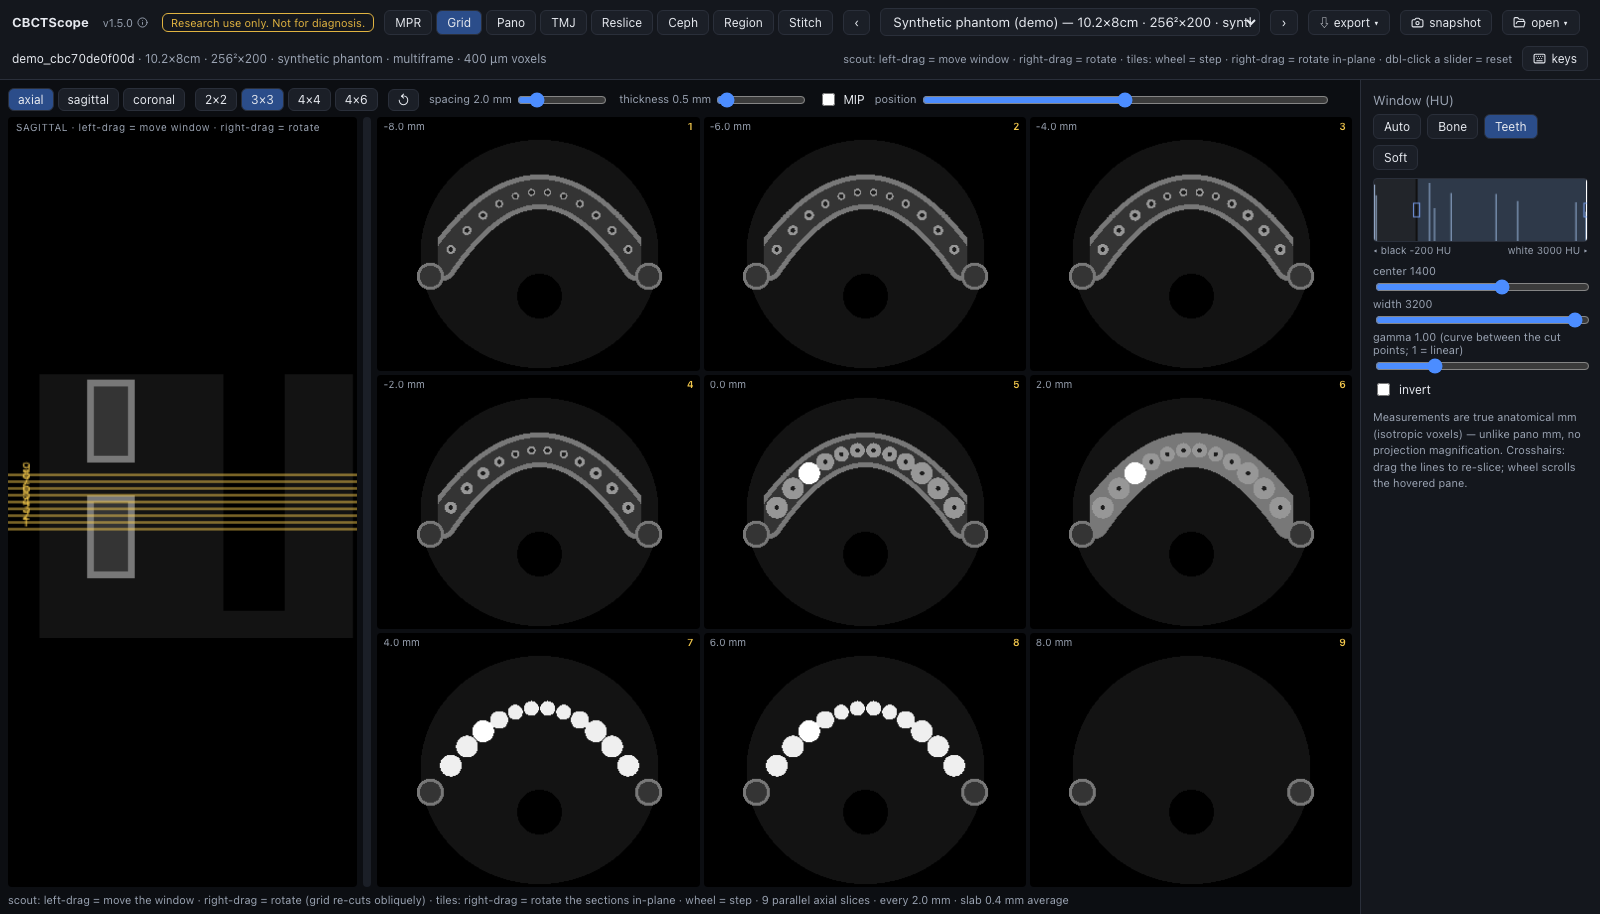
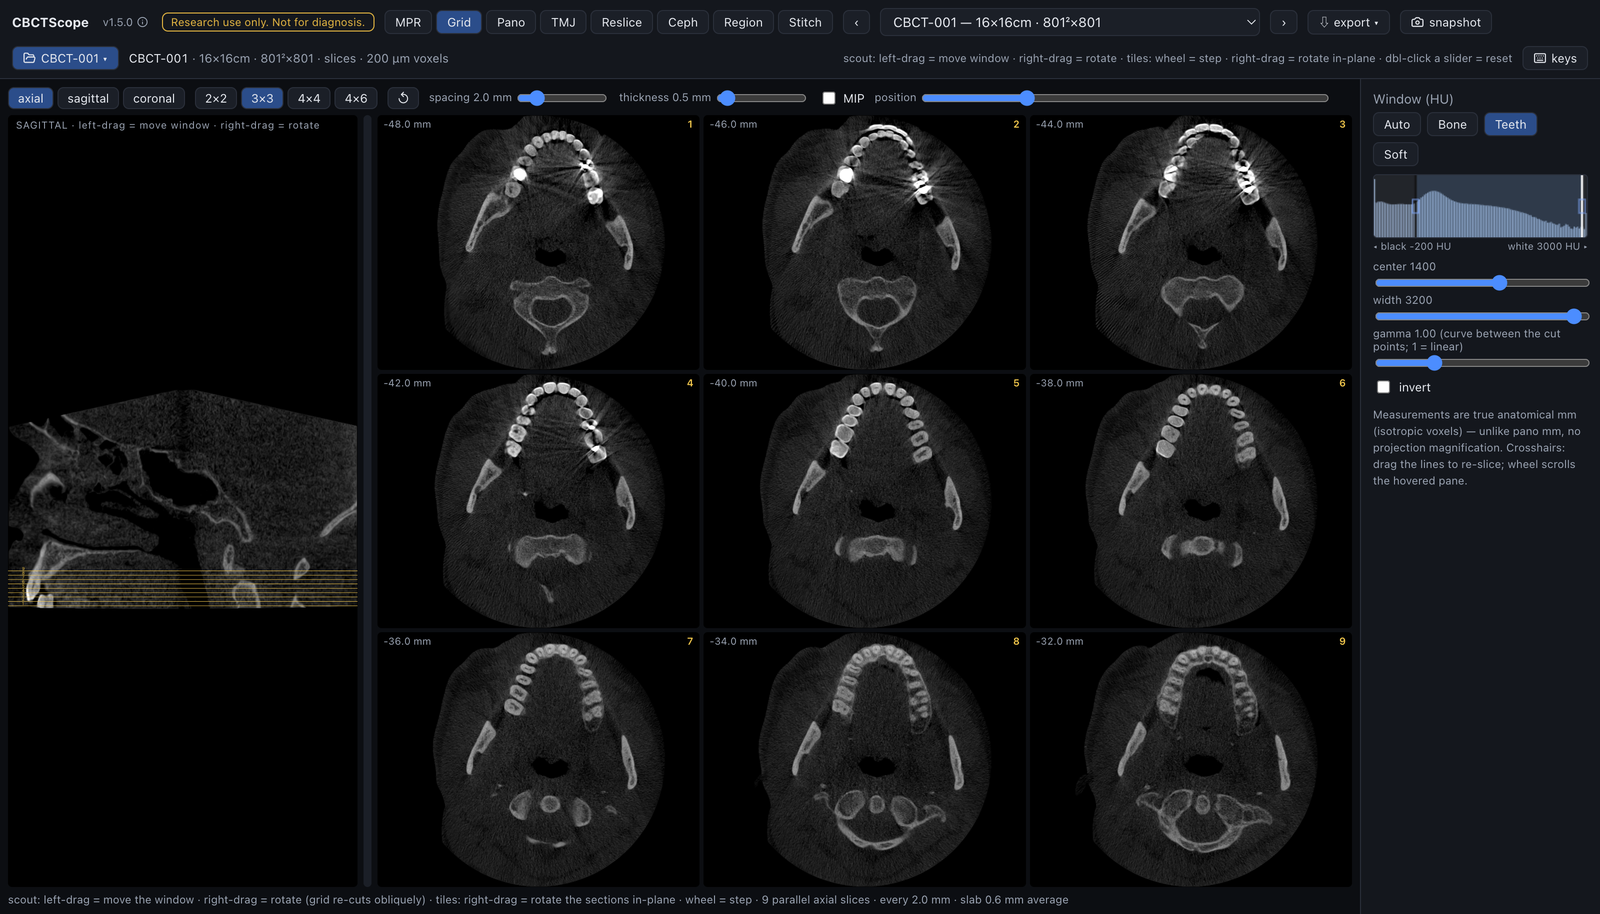
The README imagery moves from the phantom to a real, consented, de-identified CBCT
The three interface stills and the demo GIF were shot on the synthetic phantom,
which proves the viewer runs with zero patient data but does not show a
radiologist what a real scan reads like in it. They are now shot on one real
CBCT (801^3 at 200 um, 16x16 cm, full head, dentition with metal restorations)
given with the patient's written consent.

The volume never enters the repo and never did: it was de-identified BEFORE it
was first opened (identifying tags dropped, every date blanked, UIDs
regenerated, pixels byte-identical, verified by re-reading every written file),
it lives outside every repository under a neutral folder name because the
viewer prints the folder as the case label, and only these PNGs and the GIF
are committed. Hard rule 3 in AGENTS.md now states that standard instead of a
flat "no screenshots with real patient data", and adds the one line consent
does not cover: never a soft-tissue 3D render of a real head, because that
surface is a recognizable face. Every 3D pane here is the bone Surface style.
The manual's contributor guide points at the same rule.

- thumb-mpr, thumb-grid, thumb-pano re-shot; thumb-tmj is new (both condyles
  in axis-corrected sections), so the glance table is four stills.
- cbctscope-demo.gif re-recorded live over the MCP bridge: navigate_slice
  walks the axial from skull base to the dentition, set_window_level Teeth and
  Bone, set_view_mode through grid, pano, TMJ, reslice and ceph, reset_view
[…]

diff --git a/README.md b/README.md
@@ -6,13 +6,14 @@ AI-agent control.**
 
 [![DOI: 10.5281/zenodo.21431452](docs/media/doi-badge.svg)](https://doi.org/10.5281/zenodo.21431452)
 
-![An AI agent driving CBCTScope over MCP on the built-in synthetic phantom: window presets, slice navigation, multi-slice grid, curved panoramic with cross-sections](docs/media/cbctscope-demo.gif)
+![An AI agent driving CBCTScope over MCP on a real CBCT: slice navigation down to the dentition, window presets, a bone 3D render, then the multi-slice grid, curved panoramic with cross-sections, TMJ, reslice and virtual cephalogram](docs/media/cbctscope-demo.gif)
 
-*Above: an agent driving the viewer in demo mode. Window preset, slice
-navigation, the multi-slice grid, and the mode switches are MCP verbs sent by
-the agent; the arch proposal and pano enhancement are the viewer's own
-one-click tools. The volume is the built-in synthetic phantom, so no patient
-data can appear, by construction.*
+*Above: an agent driving the viewer. Slice navigation, the window presets,
+every mode switch, and the closing view reset are MCP verbs sent by the agent;
+the 3D orbit, the arch, the focal trough and the cephalogram contrast are the
+viewer's own one-click tools. The volume is the same real CBCT as the stills
+below: shown with written patient consent, de-identified before it was ever
+opened, and rendered in bone only, never as a soft-tissue surface.*
 
 CBCTScope opens the CBCT exports already on your computer and reads them in
 eight purpose-built modes: MPR with 3D rendering, multi-slice grid, curved
@@ -35,9 +36,13 @@ slices, and takes snapshots. The agent moves the camera. The human reads.
 
 ## The interface at a glance
 
-| MPR + 3D | Multi-slice grid | Curved panoramic |
-|---|---|---|
-| [![MPR: axial, sagittal, coronal and 3D render with crosshairs, HU windowing, slab and MIP controls](docs/media/thumb-mpr.png)](docs/media/thumb-mpr.png) | [![Grid: parallel axial slices with a sagittal scout, spacing and thickness controls](docs/media/thumb-grid.png)](docs/media/thumb-grid.png) | [![Pano: arch spline on the axial, curved panoramic, perpendicular cross-sections](docs/media/thumb-pano.png)](docs/media/thumb-pano.png) |
+| MPR + 3D | Multi-slice grid | Curved panoramic | TMJ condyles |
+|---|---|---|---|
+| [![MPR: axial, sagittal, coronal and a bone 3D render, crosshairs on a molar, HU windowing, slab and MIP controls](docs/media/thumb-mpr.png)](docs/media/thumb-mpr.png) | [![Grid: nine parallel axial slices through the dentition with a sagittal scout, spacing and thickness controls](docs/media/thumb-grid.png)](docs/media/thumb-grid.png) | [![Pano: arch spline on the axial, curved panoramic of the arch, perpendicular cross-sections](docs/media/thumb-pano.png)](docs/media/thumb-pano.png) | [![TMJ: both condyles in axis-corrected sagittal sections, five per side, with the axis line drawn per condyle on the axial scout](docs/media/thumb-tmj.png)](docs/media/thumb-tmj.png) |
+
+*The four stills above are a real CBCT: a 16×16cm, 200 µm Planmeca ProMax
+volume, shown with the written consent of the patient and de-identified before
+it was ever opened.*
 
 Click any thumbnail for full resolution. Each reading mode has its own guide,
 written the way a reader actually moves through a volume:

diff --git a/AGENTS.md b/AGENTS.md
@@ -10,7 +10,7 @@ CBCTScope: a complete, local-first CBCT and 2D radiograph viewer (Next.js + Corn
 
 1. **The MDR fence is structural.** No tool, endpoint, or UI feature may return findings, interpretations, or diagnoses, and the MCP verb surface stays navigation/visualization only, with no code execution. A change that crosses this line is rejected regardless of usefulness; it would turn the software into a diagnostic device.
 2. **Local-first, forever.** No hosted instance, no telemetry, no uploads. Scans are read in place; file paths never leave the server process; the only disk writes are the annotation sidecars in the app-data folder (labels, world-mm coordinates, HU statistics; never pixels).
-3. **Never commit imaging.** No DICOM files, no radiograph or CBCT screenshots with real patient data, anywhere in history. The synthetic phantom (`lib/server/phantom.ts`) is the only image content that belongs in the repo. `.gitignore` blocks `*.dcm` as a backstop.
+3. **Never commit imaging.** No DICOM files, no scan data, anywhere in history: scans are read in place and stay on the operator's own disk. `.gitignore` blocks `*.dcm` as a backstop. The repo's image content is the synthetic phantom (`lib/server/phantom.ts`) plus the interface stills in `docs/media/`. A still may show a real scan only when all of these hold: the patient gave written consent; the volume was de-identified before it was first opened (identifying tags removed, every date blanked, UIDs regenerated, no burned-in text, verified by re-reading the written files); and the folder name carries no identity, because the viewer shows it as the case label. Never publish a soft-tissue 3D render of a real head: that surface is a recognizable face. Bone renders are fine, and are what the stills use.
 4. **UI clarity beats minimalism.** Controls stay fully visible at full contrast at all times: never dim, hide, or hover-reveal a control. This is a reading environment.
 5. **No em dashes in README or docs.** Restructure with a colon, comma, or period.
 

diff --git a/docs/manual/README.md b/docs/manual/README.md
@@ -17,5 +17,6 @@ is on the author of the change. See AGENTS.md, "The user manual".
 
 Style: professional manual register, imperative voice. **Bold** marks a UI
 element, `code` marks something typed or a key. Notes and cautions are
-blockquotes. No em dashes. No screenshots with real patient data, ever; if a
-chapter needs an image, capture the synthetic phantom.
+blockquotes. No em dashes. Chapter images default to the synthetic
+phantom; a real scan may appear only under the consent and de-identification
+standard in AGENTS.md, hard rule 3.
